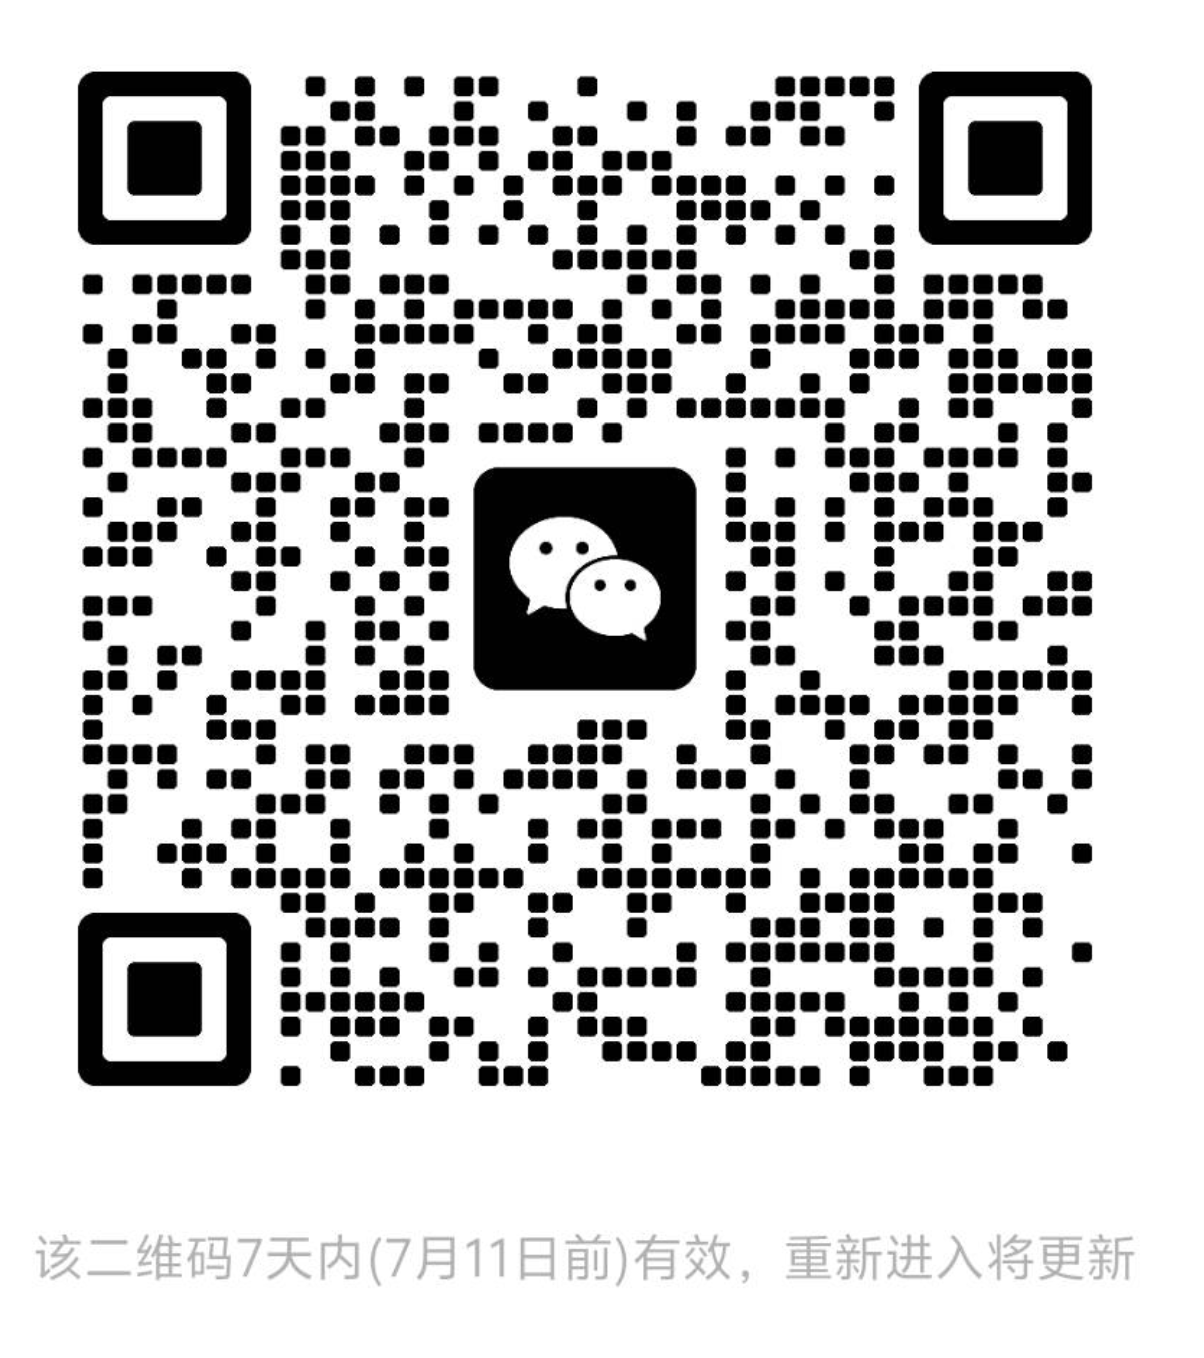
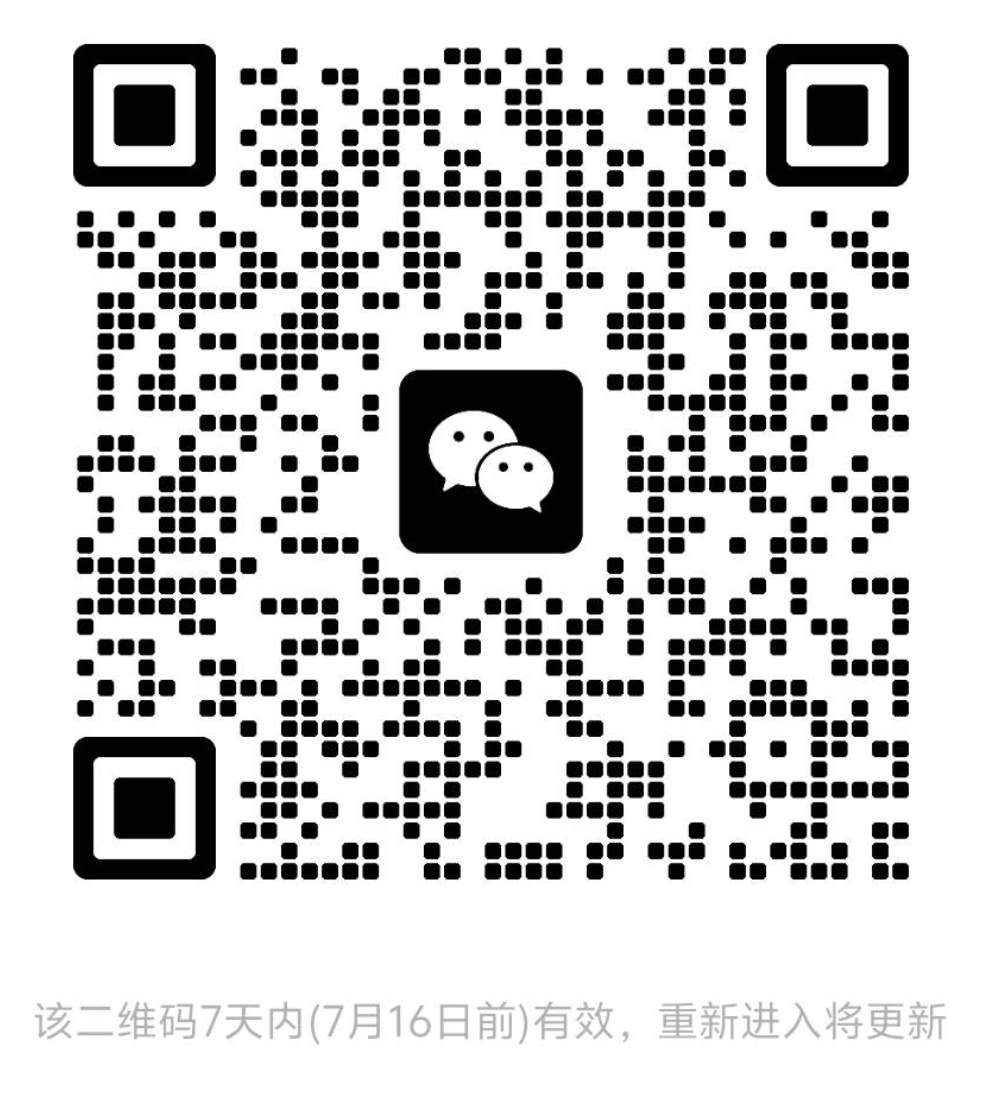
update wechat qr code

diff --git a/.vitepress/en.ts b/.vitepress/en.ts
@@ -54,7 +54,7 @@ export const en = defineConfig({
         activeMatch: '/en/api/',
         },
       { text: 'Plugin', link: base_path_plugin + '/plugin-index'},
-      { text: 'v0.6.5',  items: [
+      { text: 'v0.6.6',  items: [
         { text: 'Changelog', link: base_path_guide_cloud + '/general/changelog' },
         { text: 'Community', link: 'https://swanlab.cn/benchmarks' },
         { text: 'Join Us', link: 'https://geektechstudio.feishu.cn/wiki/I9VJwngzBigDt7kjIHgcPEYXnth' },

diff --git a/.vitepress/zh.ts b/.vitepress/zh.ts
@@ -63,7 +63,7 @@ export const zh = defineConfig({
         link: base_path_plugin + '/plugin-index',
         activeMatch: '/plugin/',
       },
-      { text: 'v0.6.5',  items: [
+      { text: 'v0.6.6',  items: [
         { text: '更新日志', link: base_path_guide_cloud + '/general/changelog' },
         { text: '基线社区', link: 'https://swanlab.cn/benchmarks' },
         { text: '加入我们', link: 'https://geektechstudio.feishu.cn/wiki/I9VJwngzBigDt7kjIHgcPEYXnth' },
